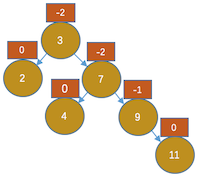
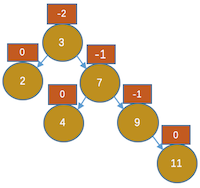
平衡二叉树

diff --git a/_posts/2018-10-18-数据结构和算法-05-查找.md b/_posts/2018-10-18-数据结构和算法-05-查找.md
@@ -111,12 +111,6 @@ tags:
 * 插入10，如图：![](https://wtj900.github.io/img/DataAlgorithm/平衡二叉排序树-10.png)，显然节点9不平衡，且是右边高，那我们左旋吧，左旋后的效果是上图右图所示。显然这是不对的，10比11小，但在11的右孩子上。（根本原因是9和11的平衡因子符号不同）那我们在怎么办呢,看下图吧：![](https://wtj900.github.io/img/DataAlgorithm/平衡二叉排序树-11.png)，以11为根先右旋，![](https://wtj900.github.io/img/DataAlgorithm/平衡二叉排序树-12.png)，再以9为根左旋。
 
 
-
-
-
-
-
-
 ```
 
 #define EH 0     // 等高
@@ -132,7 +126,7 @@ typedef struct _BitNode
 
 void R_Rotate(BiTree *T)
 {
-    BiTree p;             
+    BiTree p;
     p=T->lchild;          // 假如此时T指向4，则p指向3；
     T->lchild=p->rchild;  // 把3的右子树挂接到4的左子树上（此例子3右子树为空）
     p->rchild=T;          // 让3的右孩子指向4.
@@ -148,9 +142,178 @@ void L_Rotate(BiTree *T)
     T=p;                 //树根指向7
 }
 
+void RightBalance(BiTree *T)
+{
+    BiTree R,rl;             //调用此函数时，以T为根的树，右边高于左边，则T->bf=RH。
+    R=T->rchild;             //R是T的右孩子
+    switch (R->bf)
+    {
+        case RH:             //如果T的右孩子和T他们的平衡因子符号相同时，则直接左旋，这是总结中的第2项
+            T->bf=R->bf=EH;
+            L_Rotate(T);
+            break;
+        case EH:
+            T->bf=RH;
+            R->bf=LH;
+            L_Rotate(T);
+            break;
+        case LH:             //如果T的右孩子和T他们的平衡因子符合不同时，需要先以T的右孩子为根进行右旋，再以T为根左旋。
+            //rl为T的右孩子的左孩子
+            rl=R->lchild;    //2次旋转后，T的右孩子的左孩子为新的根 。注意：rl的右子树挂接到R的左子树上，rl的左子树挂接到T的右子树上
+            switch (rl->bf)  //这个switch 是操作T和T的右孩子进行旋转后的平衡因子。
+            {
+                case EH:
+                    T->bf=R->bf=EH;    //这些平衡因子操作，大家可以自己画图操作理解 下面的注解
+                    break;
+                    //2次旋转后，T的右孩子的左孩子为新的根 。
+                    //并且rl的右子树挂接到R的左子树上，rl的左子树挂接到T的右子树上，rl为新根
+                case RH:
+                    R->bf=EH;
+                    T->bf=LH;
+                    break;
+                    
+                case LH:
+                    R->bf=RH;
+                    T->bf=EH;
+                    break;
+                default:
+                    break;
+            }
+            rl->bf=EH;
+            R_Rotate(T->rchild);   //先左旋，以T->rchild为根左旋。
+            L_Rotate(T);           //右旋，以T为根, 左旋后 T是和rl想等，rl是新根
+            break;
+    }
+}
 
+void LeftBalance(BiTree *T)
+{
+    BiTree L,lr;
+    L=T->lchild;
+    switch (L->bf)
+    {
+        case EH:
+            L->bf=RH;
+            T->bf=LH;
+            R_Rotate(T);
+            break;
+        case LH:
+            L->bf=T->bf=EH;
+            R_Rotate(T);
+            break;
+        case RH:
+            lr=L->rchild;
+            switch (lr->bf)
+            {
+                case EH:
+                    L->bf=L->bf=EH;
+                case RH:
+                    T->bf=EH;
+                    L->bf=LH;
+                    break;
+                case LH:
+                    L->bf=EH;
+                    T->bf=RH;
+                    break;
+                default:
+                    break;
+            }
+            lr->bf=EH;
+            L_Rotate(T->lchild);
+            R_Rotate(T);
+            break;
+        default:
+            break;
+    }
+}
 
+bool InsertAVLtree(BiTree *T,int key,bool *taller)
+{
+    if(!T)               //此树为空
+    {
+        T=new BitNode;   //直接作为整棵树的根。
+        T->bf=EH;
+        T->lchild=T->rchild=NULL;
+        T->data=key;
+        taller=true;
+        return true;
+    }
+    else
+    {
+        if(key==T->data)      //已有元素，不用插入了，返回false；
+        {
+            taller=false;
+            return false;
+        }
+        if(key<T->data)      //所插元素小于此根的值，就找他的左孩子去比
+        {
+            if(!InsertAVLtree(T->lchild,key,taller))   //所插元素小于此根的值，就找他的左孩子去比
+            {
+                return false;
+            }
+            if(taller)    //taller为根，则树长高了，并且插入到了此根的左子树上。
+            {
+                switch (T->bf)            //此根的平衡因子
+                {
+                    case EH:              //原先是左右平衡，等高
+                        T->bf=LH;         //由于插入到左子树上，导致左高=》》LH
+                        taller=true;      //继续往上递归
+                        break;
+                    case LH:
+                        LeftBalance(T);   //原先LH，由于插入到了左边，这T这个树，不平衡需要左平衡
+                        taller=false;     //以平衡，设taller为false，往上递归就不用进入此语句了，
+                        break;
+                    case RH:
+                        T->bf=EH;         //原先RH，由于插入到左边，导致此T平衡
+                        taller=false;
+                        break;
+                    default:
+                        break;
+                }
+            }
+        }
+        else
+        {
+            if(!InsertAVLtree(T->rchild,key,taller))
+            {
+                return false;
+            }
+            
+            if(taller)
+            {
+                switch (T->bf)
+                {
+                    case EH:
+                        T->bf=RH;
+                        taller=true;
+                        break;
+                    case LH:
+                        T->bf=EH;
+                        taller=false;
+                        break;
+                    case RH:
+                        RightBalance(T);
+                        taller=false;
+                        break;
+                    default:
+                        break;
+                }
+            }
+        }
+    }
+}
 
+//中序遍历输出
+void InOrderReverse(BiTree *T)
+{
+    if(T)
+    {
+        
+        InOrderReverse(T->lchild);
+        cout<<T->data<<endl;
+        InOrderReverse(T->rchild);
+    }
+}
 
 ```
 
